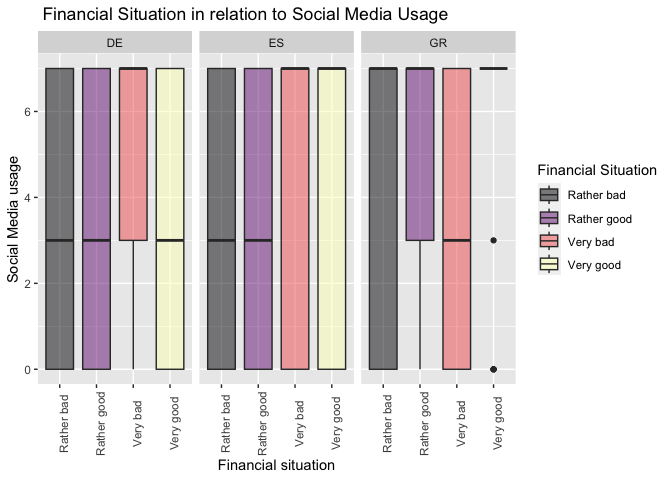
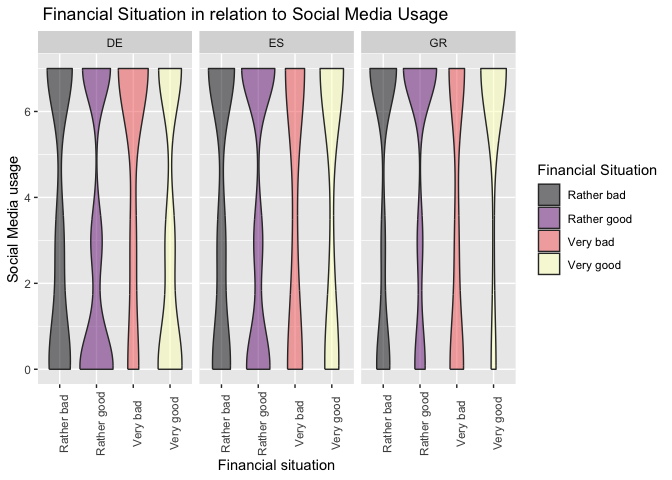
final project solution

Changed region(s): [[0.0625, 0.125, 0.7812, 0.7812], [0.7812, 0.375, 0.8438, 0.5938]]

diff --git a/Projects/nico-afentoulidis/jasmin-schels.md b/Projects/nico-afentoulidis/jasmin-schels.md
@@ -1,8 +1,6 @@
 ## Initial solution
 
-This is my first try at a solution of your project. I have all the
-relevant data in one table. Now the only thing left to do is to
-visualize it in a map.
+Here is the data in a table and the maps:
 
     library(tidyverse)
 
@@ -36,6 +34,47 @@ visualize it in a map.
     ## 
     ##     unemp
 
+    library(eurostat)
+    library(leaflet)
+    library(sf)
+
+    ## Linking to GEOS 3.11.0, GDAL 3.5.3, PROJ 9.1.0; sf_use_s2() is TRUE
+
+    library(scales)
+
+    ## 
+    ## Attaching package: 'scales'
+    ## 
+    ## The following object is masked from 'package:viridis':
+    ## 
+    ##     viridis_pal
+    ## 
+    ## The following object is masked from 'package:purrr':
+    ## 
+    ##     discard
+    ## 
+    ## The following object is masked from 'package:readr':
+    ## 
+    ##     col_factor
+
+    library(cowplot)
+
+    ## 
+    ## Attaching package: 'cowplot'
+    ## 
+    ## The following object is masked from 'package:lubridate':
+    ## 
+    ##     stamp
+
+    library(ggthemes)
+
+    ## 
+    ## Attaching package: 'ggthemes'
+    ## 
+    ## The following object is masked from 'package:cowplot':
+    ## 
+    ##     theme_map
+
     media_use <- read_csv2("ZA7848_v1-0-0.csv")
 
     ## ℹ Using "','" as decimal and "'.'" as grouping mark. Use `read_delim()` for more control.
@@ -60,8 +99,7 @@ visualize it in a map.
                  mean_Internet = mean(qd3_6, na.rm = TRUE),
                  mean_SocialMedia = mean(qd3_8, na.rm = TRUE)
                  )  %>% 
-         drop_na() %>% 
-      print()
+         drop_na()
 
     ## Warning: There were 7 warnings in `mutate()`.
     ## The first warning was:
@@ -70,33 +108,137 @@ visualize it in a map.
     ## ! NAs introduced by coercion
     ## ℹ Run `dplyr::last_dplyr_warnings()` to see the 6 remaining warnings.
 
-    ## # A tibble: 27 × 8
-    ##    isocntry mean_TV mean_TVviaInternet mean_radio mean_podcast mean_writtenPress
-    ##    <chr>      <dbl>              <dbl>      <dbl>        <dbl>             <dbl>
-    ##  1 AT          6.13              2.65        4.71        1.13               3.92
-    ##  2 BE          5.88              2.27        4.72        1.12               3.18
-    ##  3 BG          6.57              0.841       3.59        0.567              1.17
-    ##  4 CY          6.23              2.72        4.34        0.510              1.06
-    ##  5 CZ          5.12              2.22        4.59        1.94               2.14
-    ##  6 DE          5.92              2.28        5.36        0.945              4.04
-    ##  7 DK          5.78              3.25        5.21        1.70               4.15
-    ##  8 EE          5.48              2.24        5.11        1.18               3.86
-    ##  9 ES          6.01              1.66        3.12        0.653              1.83
-    ## 10 FI          6.03              3.18        5.14        0.797              5.39
-    ## # ℹ 17 more rows
-    ## # ℹ 2 more variables: mean_Internet <dbl>, mean_SocialMedia <dbl>
+      SHP_0 <- get_eurostat_geospatial(resolution = 10, 
+                                       nuts_level = 0, 
+                                       year = 2016)
 
-The boxplots are ready:
+    ## Object cached at /var/folders/_b/0z32vgtj3gg_vrbnw3b6y16c0000gn/T//RtmpRaWFBg/eurostat/sf10020164326.RData
+    ## Reading cache file /var/folders/_b/0z32vgtj3gg_vrbnw3b6y16c0000gn/T//RtmpRaWFBg/eurostat/sf10020164326.RData
+    ## sf at resolution 1: 10  from year  2016  read from cache file:  /var/folders/_b/0z32vgtj3gg_vrbnw3b6y16c0000gn/T//RtmpRaWFBg/eurostat/sf10020164326.RData
 
-    media_use %>%
+    ## Warning in get_eurostat_geospatial(resolution = 10, nuts_level = 0, year =
+    ## 2016): Default of 'make_valid' for 'output_class="sf"' will be changed in the
+    ## future (see function details).
+
+    EU28 <- eu_countries %>% 
+      select(geo = code, name)
+      
+    SHP_28 <- get_eurostat_geospatial(resolution = 10, 
+                                      nuts_level = 0, 
+                                      year = 2016) %>% 
+      select(geo = NUTS_ID, geometry) %>% 
+      inner_join(EU28, by = "geo") %>% 
+      arrange(geo) %>% 
+      st_as_sf()
+
+    ## Object cached at /var/folders/_b/0z32vgtj3gg_vrbnw3b6y16c0000gn/T//RtmpRaWFBg/eurostat/sf10020164326.RData
+    ## Reading cache file /var/folders/_b/0z32vgtj3gg_vrbnw3b6y16c0000gn/T//RtmpRaWFBg/eurostat/sf10020164326.RData
+    ## sf at resolution 1: 10  from year  2016  read from cache file:  /var/folders/_b/0z32vgtj3gg_vrbnw3b6y16c0000gn/T//RtmpRaWFBg/eurostat/sf10020164326.RData
+
+    ## Warning in get_eurostat_geospatial(resolution = 10, nuts_level = 0, year =
+    ## 2016): Default of 'make_valid' for 'output_class="sf"' will be changed in the
+    ## future (see function details).
+
+      colnames(mean_media)[1] ="geo"
+
+     media_map <- mean_media %>% 
+      inner_join(SHP_28, by = "geo") %>% 
+      st_as_sf()
+     
+     media_map %>% 
+       ggplot((aes(fill = mean_TV ))) +
+       geom_sf() +
+       scale_x_continuous(limits = c(-10, 35)) +
+       scale_y_continuous(limits = c(35, 75)) +
+       theme_void() +
+       labs(title="Mean TV usage in the EU",
+            fill="Media usage")
+
+![](jasmin-schels_files/figure-markdown_strict/unnamed-chunk-1-1.png)
+
+     # TV via Internet Usage
+     media_map %>% 
+       ggplot((aes(fill = mean_TVviaInternet ))) +
+       geom_sf() +
+       scale_x_continuous(limits = c(-10, 35)) +
+       scale_y_continuous(limits = c(35, 75)) +
+       theme_void() +
+       labs(title="Mean TV via Internet usage in the EU",
+            fill="Media usage")
+
+![](jasmin-schels_files/figure-markdown_strict/unnamed-chunk-1-2.png)
+
+    # Radio Usage  
+     media_map %>% 
+       ggplot((aes(fill = mean_radio))) +
+       geom_sf() +
+       scale_x_continuous(limits = c(-10, 35)) +
+       scale_y_continuous(limits = c(35, 75)) +
+       theme_void() +
+       labs(title="Mean Radio usage in the EU",
+            fill="Media usage")
+
+![](jasmin-schels_files/figure-markdown_strict/unnamed-chunk-1-3.png)
+
+    # Podcast Usage  
+     media_map %>% 
+       ggplot((aes(fill = mean_podcast ))) +
+       geom_sf() +
+       scale_x_continuous(limits = c(-10, 35)) +
+       scale_y_continuous(limits = c(35, 75)) +
+       theme_void() +
+       labs(title="Mean Podcast usage in the EU",
+            fill="Media usage")
+
+![](jasmin-schels_files/figure-markdown_strict/unnamed-chunk-1-4.png)
+
+    # Written Press Usage  
+     media_map %>% 
+       ggplot((aes(fill = mean_writtenPress ))) +
+       geom_sf() +
+       scale_x_continuous(limits = c(-10, 35)) +
+       scale_y_continuous(limits = c(35, 75)) +
+       theme_void() +
+       labs(title="Mean Written Press usage in the EU",
+            fill="Media usage")
+
+![](jasmin-schels_files/figure-markdown_strict/unnamed-chunk-1-5.png)
+
+     # Internet Usage  
+     media_map %>% 
+       ggplot((aes(fill = mean_Internet ))) +
+       geom_sf() +
+       scale_x_continuous(limits = c(-10, 35)) +
+       scale_y_continuous(limits = c(35, 75)) +
+       theme_void() +
+       labs(title="Mean Internet usage in the EU",
+            fill="Media usage")
+
+![](jasmin-schels_files/figure-markdown_strict/unnamed-chunk-1-6.png)
+
+     # Social Media 
+     media_map %>% 
+       ggplot((aes(fill = mean_SocialMedia ))) +
+       geom_sf() +
+       scale_x_continuous(limits = c(-10, 35)) +
+       scale_y_continuous(limits = c(35, 75)) +
+       theme_void() +
+       labs(title="Mean Social Media usage in the EU",
+            fill="Media usage")
+
+![](jasmin-schels_files/figure-markdown_strict/unnamed-chunk-1-7.png)
+
+And here are the violin plots:
+
+       media_use %>%
       mutate(isocntry = str_sub(isocntry, start= 1, end = 2),
              across(starts_with("qd3_"), as.double) ) %>% 
       select(qa1_5, qd3_8, isocntry) %>%
-      filter(isocntry == "GR" | isocntry == "ES" | isocntry =="DE", 
+      filter(isocntry %in% c("GR","ES","DE"), 
       qa1_5 != "Don't know (SPONTANEOUS)") %>%
       drop_na() %>%
       ggplot(aes(x=qa1_5, y=qd3_8, fill=qa1_5)) +
-      geom_boxplot() +
+      geom_violin() +
       ggtitle(" Financial Situation in relation to Social Media Usage") +
       labs(fill="Financial Situation", y = "Social Media usage", x = "Financial situation") +
       theme(axis.text.x = element_text(angle = 90)) +
